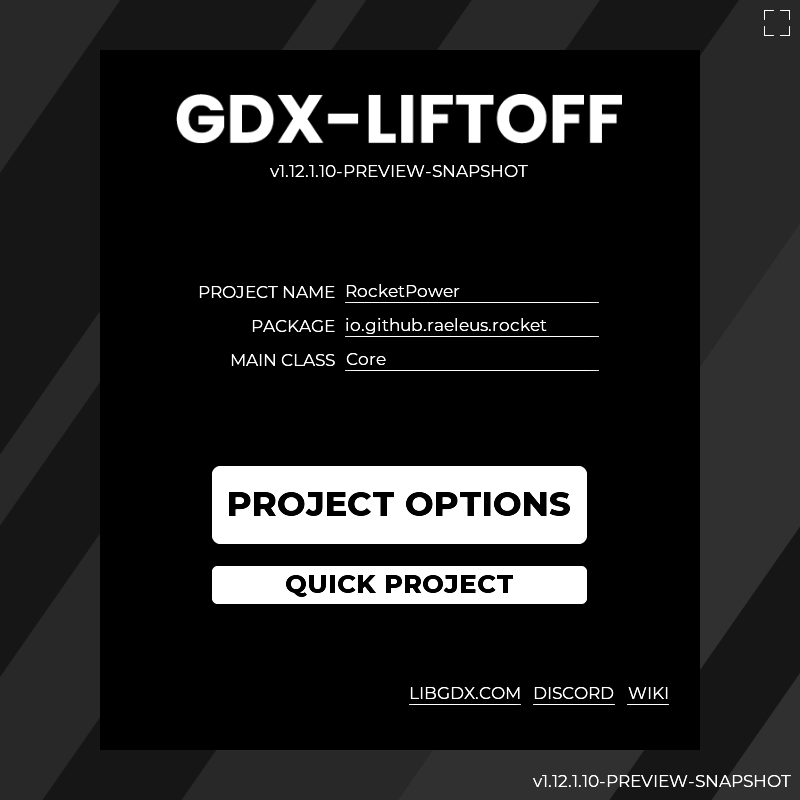
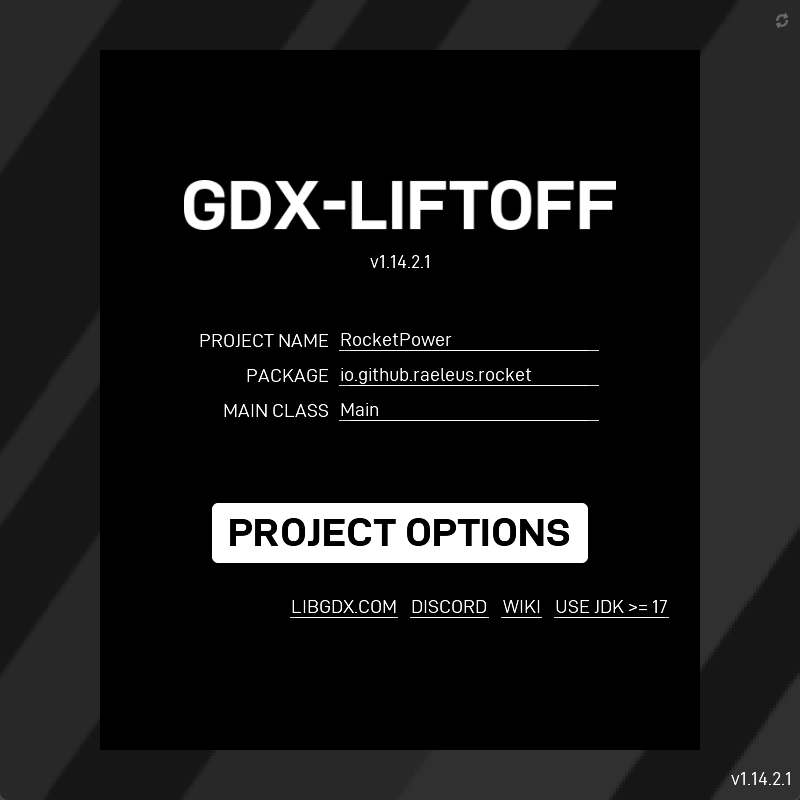
Update the screenshot to how this looks now.
Pretty close, but not the same.

diff --git a/src/main/kotlin/gdx/liftoff/data/platforms/Lwjgl3.kt b/src/main/kotlin/gdx/liftoff/data/platforms/Lwjgl3.kt
@@ -187,7 +187,7 @@ $${joinDependencies(dependencies)}
       (if (project.extensions.isSelected("gdx-freetype")) "      implementation \"io.github.berstanio:gdx-svmhelper-extension-freetype:\$graalHelperVersion\"\n" else "") +
       $$"""
   }
-  // Forces LWJGL3 to use at least $lwjgl3Version, currently 3.4.1, to avoid problems on Java 25 and up.
+  // Forces LWJGL3 to use at least $lwjgl3Version, currently 3.4.1, to avoid warnings on Java 25 and up.
   constraints{
     implementation("org.lwjgl:lwjgl:$lwjgl3Version")
     implementation("org.lwjgl:lwjgl-glfw:$lwjgl3Version")
